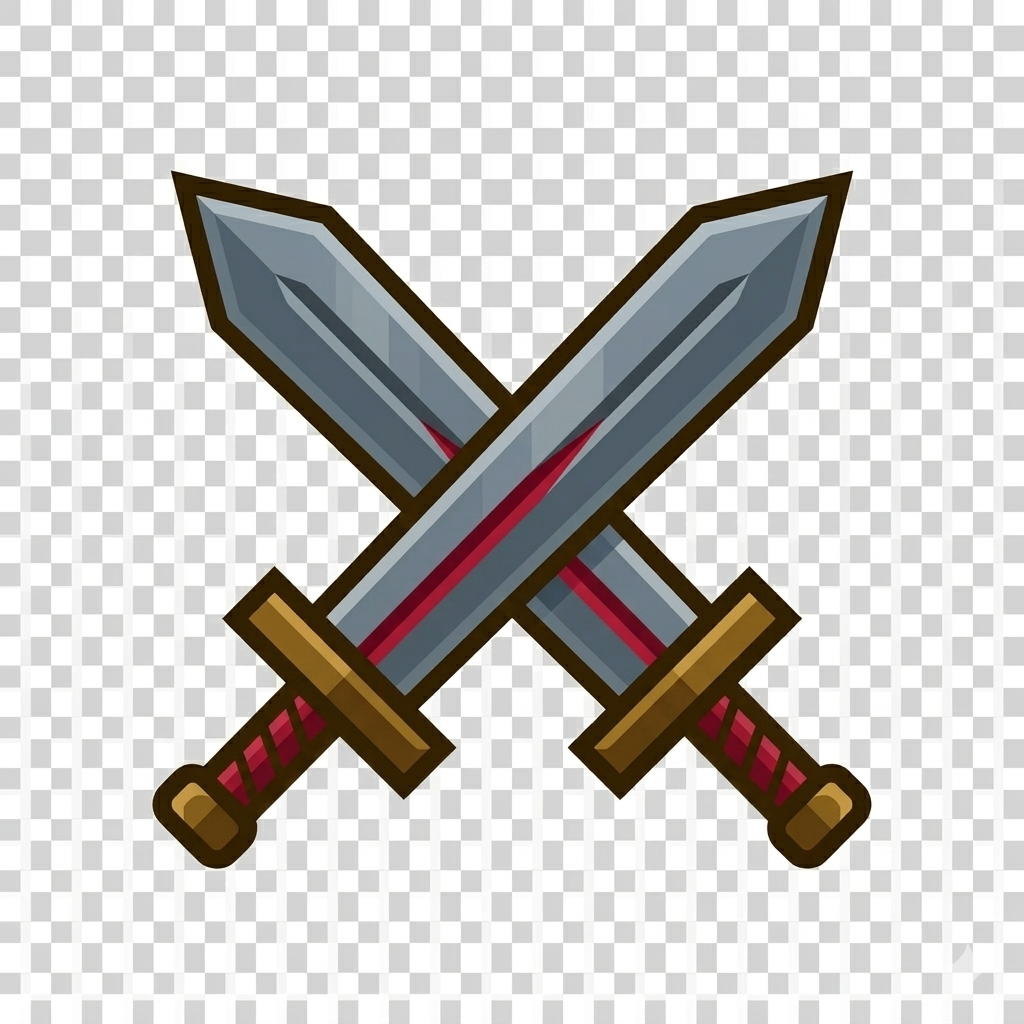
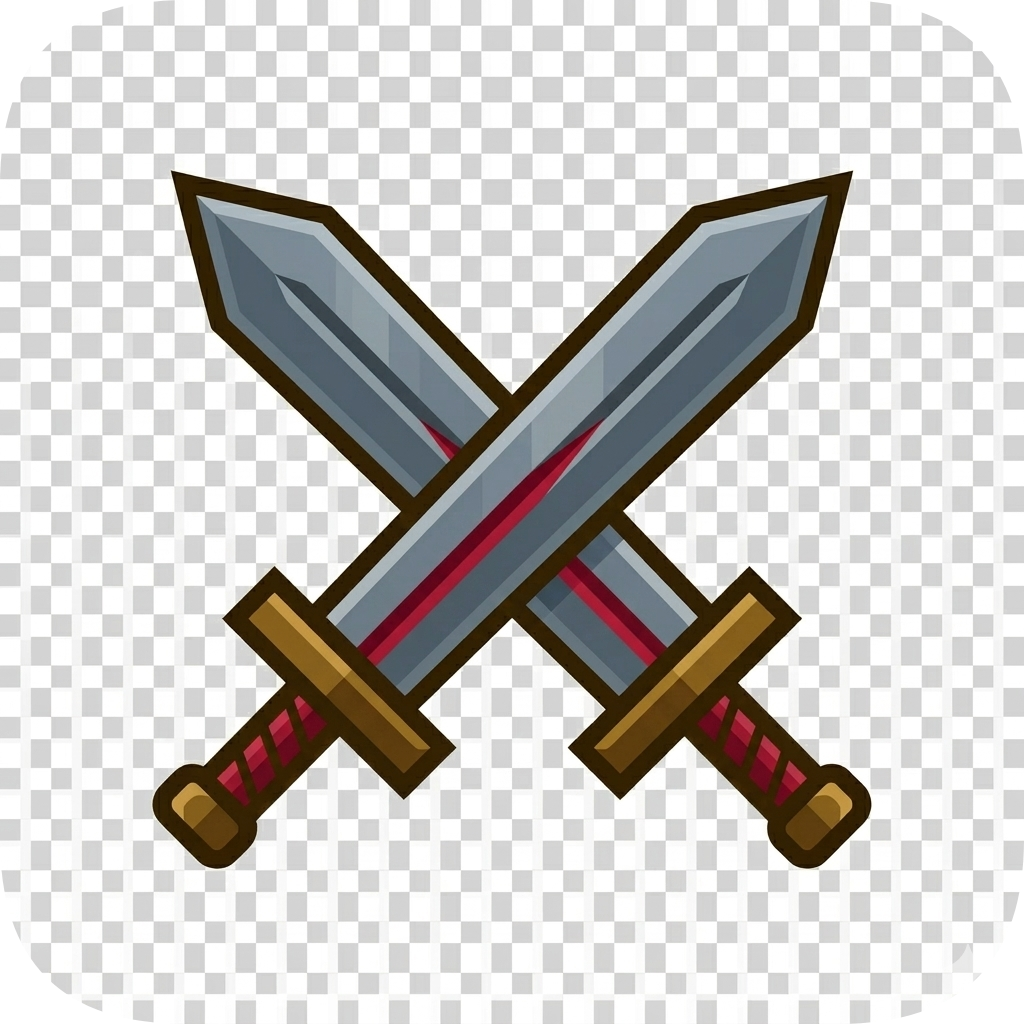
Quartz sync: Mar 11, 2026, 4:55 PM

diff --git a/quartz.layout.ts b/quartz.layout.ts
@@ -12,7 +12,7 @@ export const sharedPageComponents: SharedLayout = {
       "GitHub": "https://github.com/CyberSec626",
       "YouTube": "https://www.youtube.com/@AmaraíSantos",
       "Hack The Box": "https://app.hackthebox.com/public/users/1980227",
-      "Discord Community": "https://discord.gg/cRFFHYye7t",
+      //"Discord Community": "https://discord.gg/cRFFHYye7t",
     },
   }),
 }

diff --git a/content/index.md b/content/index.md
@@ -7,5 +7,3 @@ Bem-vindo ao meu espaço de documentação técnica.
 Sou um profissional de Cibersegurança focado em operações ofensivas. Este blog funciona como meu laboratório público e “segundo cérebro”, onde documento minuciosamente minhas pesquisas de vulnerabilidades, registros de estudos teóricos e writeups de laboratórios práticos.
 
 Meu objetivo é compartilhar conhecimento com a comunidade, transformando desafios técnicos em guias acessíveis para quem busca fortalecer a segurança digital através da mentalidade hacker.
-
-teste